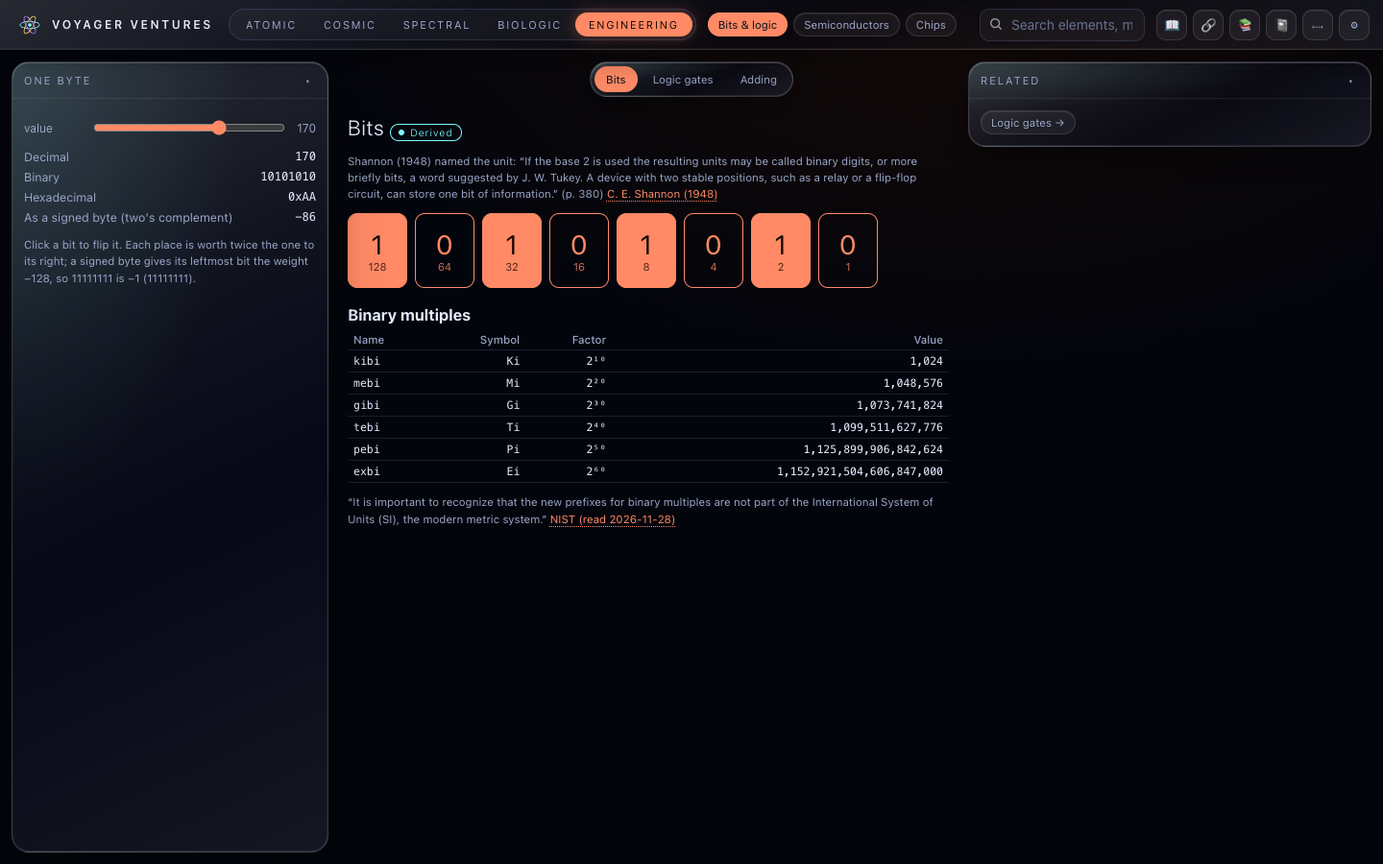
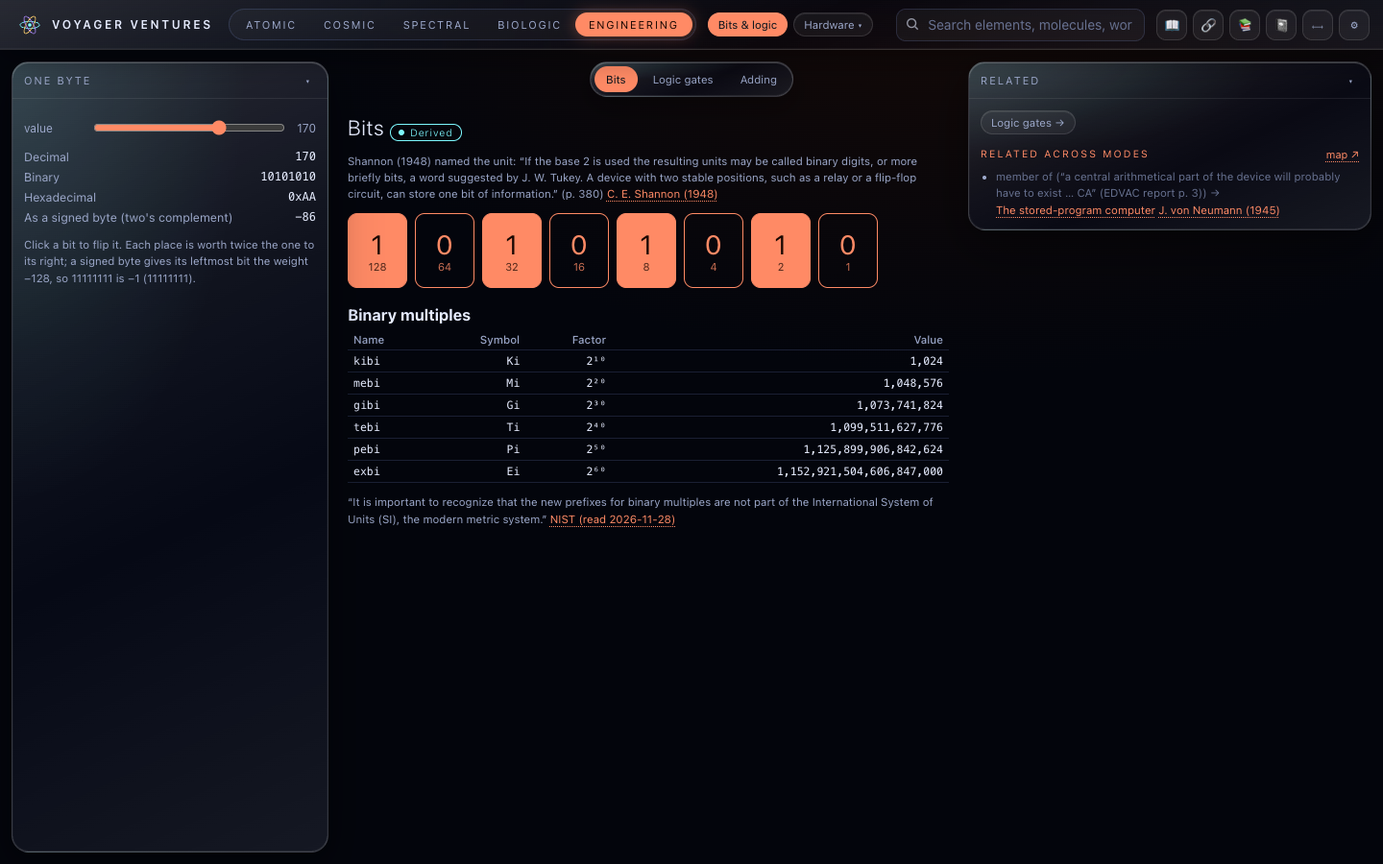
Gate 15.4: the stored-program computer (#/engineering/architecture)
A teaching machine organised as von Neumann's 1945 EDVAC report divides a computer (page
images pp. 3, 6, 7, 85): one marked memory for orders and numbers, four order classes.
Engineering menu: Hardware group.

Claude-Session: https://claude.ai/code/session_012kk9KVTjrcZt1kBsRpDRu1

Changed region(s): [[0.6875, 0.1556, 1.0, 0.2489], [0.5938, 0.0, 0.75, 0.0622]]

diff --git a/src/modes/engineering/architecture/ArchitectureView.tsx b/src/modes/engineering/architecture/ArchitectureView.tsx
@@ -1,0 +1,90 @@
+/**
+ * The stored-program computer — #/engineering/architecture?prog=add|countdown|multiply   (Phase 15, Gate 15.4)
+ *
+ * A teaching machine laid out as von Neumann's 1945 EDVAC report divides a computer — CA, CC, M, I, O — with orders
+ * and numbers in one memory, each word marked as one or the other. Step one fetch–decode–execute cycle at a time,
+ * or run; the part that acts on each step lights up. Not the EDVAC's actual order code.
+ */
+import { useEffect, useState } from 'react';
+import { navigate, setQuery, useRoute } from '@/shared/router';
+import { KV, Panel, ProvenanceBadge } from '@/ui/components';
+import { SourceLinks } from '@/ui/SourcesView';
+import { RelatedLinks } from '@/ui/RelatedLinks';
+import { useVoyager } from '@/shared/store';
+import { OP_CLASS, PROGRAMS, boot, run, step, type Machine } from '@/core/computing/cpu';
+import data from '@datasets/engineering/architecture.json';
+
+interface W { where: string; quote: string }
+const D = data as unknown as { source: string; parts: (W & { id: string })[]; stored: W & { mark: string }; classes: W; outputFromM: W; nerves: W };
+const ON = '#ff8a65';
+const CLASS_LABEL = { a: '(a) arithmetic in CA', b: '(b) transfer of a number', c: '(c) next order from elsewhere in M', d: '(d) input / output' } as const;
+
+/** Which of CA, CC, M, O the last order used. */
+function active(m: Machine): Set<string> {
+  const op = m.last.split(/[ :]/)[0];
+  const s = new Set<string>(['CC']);
+  if (op === 'ADD' || op === 'SUB') { s.add('CA'); s.add('M'); }
+  if (op === 'LOAD' || op === 'STORE') { s.add('M'); s.add('CA'); }
+  if (op === 'OUT') { s.add('O'); s.add('CA'); }
+  return s;
+}
+
+export default function ArchitectureView() {
+  const { query } = useRoute();
+  const prog = (Object.keys(PROGRAMS).find((k) => k === query.get('prog')) ?? 'multiply');
+  const reduced = useVoyager((s) => s.settings.reducedMotion);
+  const [m, setM] = useState<Machine>(() => boot(PROGRAMS[prog].mem));
+  const [running, setRunning] = useState(false);
+  useEffect(() => { setM(boot(PROGRAMS[prog].mem)); setRunning(false); }, [prog]);
+  useEffect(() => {
+    if (!running) return;
+    if (m.halted) { setRunning(false); return; }
+    const t = setTimeout(() => setM((x) => step(x)), 350);
+    return () => clearTimeout(t);
+  }, [running, m]);
+  const act = active(m);
+  const box = (id: string, x: number, y: number, w: number, h: number, label: string) => (
+    <g key={id}><rect x={x} y={y} width={w} height={h} rx={10} fill={act.has(id) && m.steps > 0 ? 'rgba(255,138,101,0.25)' : 'none'} stroke={ON} strokeWidth={act.has(id) && m.steps > 0 ? 2.5 : 1} /><text x={x + w / 2} y={y + h / 2 + 5} textAnchor="middle" fontSize={14} fill={ON}>{label}</text></g>
+  );
+  return (
+    <>
+      <Panel id="arch-controls" className="left-panel" title="Run a program">
+        <div style={{ display: 'flex', gap: 6, flexWrap: 'wrap' }}>{Object.entries(PROGRAMS).map(([k, p]) => <button key={k} className={`chip ${k === prog ? 'active' : ''}`} aria-pressed={k === prog} onClick={() => setQuery({ prog: k === 'multiply' ? null : k })}>{p.title}</button>)}</div>
+        <div className="chip-row" style={{ margin: '10px 0' }}>
+          <button className="chip" disabled={m.halted} onClick={() => setM(step(m))}>Step</button>
+          <button className="chip" disabled={m.halted} onClick={() => (reduced ? setM(run(m)) : setRunning((r) => !r))}>{running ? 'Pause' : 'Run'}</button>
+          <button className="chip" onClick={() => { setRunning(false); setM(boot(PROGRAMS[prog].mem)); }}>Reset</button>
+        </div>
+        <dl className="kv" aria-label="Machine state">
+          <KV k="Next order at (CC)" v={String(m.pc)} /><KV k="Accumulator (CA)" v={String(m.acc)} />
+          <KV k="Output" v={m.out.length ? m.out.join(', ') : '—'} /><KV k="Cycles" v={String(m.steps)} />
+          <KV k="Last" v={m.last} />
+        </dl>
+        <p className="note">Our OUT sends the accumulator straight out; von Neumann thought it “again best to make all transfers from M (by O) into R, and never directly from C” ({D.outputFromM.where}).</p>
+      </Panel>
+      <div className="center-stage hr-stage">
+        <div className="stage-head"><h1>The stored-program computer <ProvenanceBadge cls="illustrative" title="A teaching machine organised as the EDVAC report describes; not the EDVAC's own code" /></h1>
+          <p className="note">von Neumann (1945): “{D.stored.quote}” — so “{D.stored.mark}” ({D.stored.where}) <SourceLinks ids={[D.source]} /></p></div>
+        <svg viewBox="0 0 600 150" role="img" aria-label="The five parts" style={{ width: '100%', maxWidth: 600 }}>
+          {box('I', 10, 50, 70, 50, 'I')}{box('CC', 120, 10, 150, 55, 'CC control')}{box('CA', 120, 85, 150, 55, 'CA arithmetic')}{box('M', 310, 10, 170, 130, 'M memory')}{box('O', 520, 50, 70, 50, 'O')}
+          <line x1={80} x2={120} y1={75} y2={75} stroke={ON} opacity={0.4} /><line x1={270} x2={310} y1={37} y2={37} stroke={ON} opacity={0.4} /><line x1={270} x2={310} y1={112} y2={112} stroke={ON} opacity={0.4} /><line x1={480} x2={520} y1={75} y2={75} stroke={ON} opacity={0.4} />
+        </svg>
+        <div role="grid" aria-label="Memory" style={{ display: 'grid', gridTemplateColumns: 'repeat(8, 1fr)', gap: 6, maxWidth: 600 }}>
+          {m.mem.map((w, i) => (
+            <div key={i} role="gridcell" aria-label={`Word ${i}`} style={{ border: `1px solid ${i === m.pc && !m.halted ? '#f5c76b' : 'var(--line)'}`, borderRadius: 8, padding: '4px 6px', background: i === m.pc && !m.halted ? 'rgba(245,199,107,0.12)' : 'transparent', fontSize: 12 }}>
+              <div className="note" style={{ fontSize: 10 }}>{i} · {w.kind === 'order' ? 'order' : 'number'}</div>
+              <div style={{ color: w.kind === 'order' ? ON : 'var(--text)' }}>{w.kind === 'order' ? `${w.op}${['OUT', 'HALT'].includes(w.op) ? '' : ` ${w.addr}`}` : w.value}</div>
+            </div>
+          ))}
+        </div>
+        <p className="note">Gold: the word CC fetches next. Each order is one of the report's four classes: {Object.entries(CLASS_LABEL).map(([k, l]) => `${l} — ${Object.entries(OP_CLASS).filter(([, c]) => c === k).map(([o]) => o).join(', ')}`).join('; ')}. “{D.classes.quote}” ({D.classes.where}) JZ, a jump taken only when the accumulator is zero, is our addition.</p>
+      </div>
+      <Panel id="arch-detail" className="right-panel" title="The five parts">
+        {D.parts.map((p) => <p key={p.id} className="note"><strong style={{ color: ON }}>{p.id}</strong> — “{p.quote}” ({p.where})</p>)}
+        <p className="note">“{D.nerves.quote}” ({D.nerves.where}) <SourceLinks ids={[D.source]} /> <button className="link-btn" onClick={() => navigate('/biologic/nerves')}>Neurons →</button></p>
+        <button className="chip" onClick={() => navigate('/engineering')}>The adder inside CA →</button>
+        <RelatedLinks id="instrument:architecture" limit={3} />
+      </Panel>
+    </>
+  );
+}

diff --git a/src/core/computing/cpu.ts b/src/core/computing/cpu.ts
@@ -1,0 +1,51 @@
+/**
+ * A stored-program teaching machine (Phase 15, Gate 15.4), organised as von Neumann's 1945 EDVAC report describes:
+ * a central arithmetic part (CA, here one accumulator), central control (CC, here a program counter that fetches
+ * orders), one memory M holding both orders and numbers — “The orders which are received by C come from M, i.e.
+ * from the same place where the numerical material is stored” (p. 85) — and input/output. Each memory word carries
+ * a mark saying whether it is a number or an order. The orders follow his four classes (p. 85):
+ *   (a) arithmetic in CA: ADD, SUB       (b) transfers of a number: LOAD, STORE
+ *   (c) moving CC's connection with M:  JUMP, and JZ (jump when the accumulator is zero — our addition)
+ *   (d) input/output: OUT, and HALT to stop.
+ * This is an educational machine in the spirit of the report, not the EDVAC's actual order code.
+ */
+export type Op = 'LOAD' | 'STORE' | 'ADD' | 'SUB' | 'JUMP' | 'JZ' | 'OUT' | 'HALT';
+export type Word = { kind: 'order'; op: Op; addr: number } | { kind: 'number'; value: number };
+export const OP_CLASS: Record<Op, 'a' | 'b' | 'c' | 'd'> = { ADD: 'a', SUB: 'a', LOAD: 'b', STORE: 'b', JUMP: 'c', JZ: 'c', OUT: 'd', HALT: 'd' };
+export interface Machine { mem: Word[]; pc: number; acc: number; out: number[]; halted: boolean; steps: number; last: string }
+
+export const order = (op: Op, addr = 0): Word => ({ kind: 'order', op, addr });
+export const num = (value: number): Word => ({ kind: 'number', value });
+export const boot = (mem: Word[]): Machine => ({ mem: mem.map((w) => ({ ...w })), pc: 0, acc: 0, out: [], halted: false, steps: 0, last: 'ready' });
+
+/** One fetch–decode–execute cycle; returns a new machine. */
+export function step(m: Machine): Machine {
+  if (m.halted) return m;
+  const mem = m.mem.map((w) => ({ ...w }));
+  const w = mem[m.pc];
+  if (!w || w.kind !== 'order') return { ...m, halted: true, last: `stopped: word ${m.pc} is a number, not an order` };
+  const val = (a: number) => { const x = mem[a]; return x && x.kind === 'number' ? x.value : 0; };
+  let { pc, acc } = m; const out = [...m.out]; let halted = false, last = '';
+  pc += 1;
+  switch (w.op) {
+    case 'LOAD': acc = val(w.addr); last = `LOAD ${w.addr}: accumulator ← ${acc}`; break;
+    case 'STORE': mem[w.addr] = num(acc); last = `STORE ${w.addr}: memory[${w.addr}] ← ${acc}`; break;
+    case 'ADD': acc += val(w.addr); last = `ADD ${w.addr}: accumulator ← ${acc}`; break;
+    case 'SUB': acc -= val(w.addr); last = `SUB ${w.addr}: accumulator ← ${acc}`; break;
+    case 'JUMP': pc = w.addr; last = `JUMP ${w.addr}`; break;
+    case 'JZ': if (acc === 0) { pc = w.addr; last = `JZ ${w.addr}: zero, jump`; } else last = `JZ ${w.addr}: not zero, go on`; break;
+    case 'OUT': out.push(acc); last = `OUT: ${acc}`; break;
+    case 'HALT': halted = true; pc -= 1; last = 'HALT'; break;
+  }
+  return { mem, pc, acc, out, halted, steps: m.steps + 1, last };
+}
+export function run(m: Machine, limit = 1000): Machine { let x = m; while (!x.halted && x.steps < limit) x = step(x); return x; }
+
+/** Example programs. */
+export const PROGRAMS: Record<string, { title: string; mem: Word[] }> = {
+  add: { title: 'Add two numbers (7 + 35)', mem: [order('LOAD', 5), order('ADD', 6), order('STORE', 7), order('OUT'), order('HALT'), num(7), num(35), num(0)] },
+  countdown: { title: 'Count down from 5', mem: [order('LOAD', 8), order('OUT'), order('JZ', 6), order('SUB', 9), order('STORE', 8), order('JUMP', 0), order('HALT'), num(0), num(5), num(1)] },
+  multiply: { title: 'Multiply 6 × 7 by repeated addition', mem: [
+    order('LOAD', 13), order('JZ', 9), order('SUB', 15), order('STORE', 13), order('LOAD', 14), order('ADD', 12), order('STORE', 14), order('JUMP', 0), num(0),
+    order('LOAD', 14), order('OUT'), order('HALT'), num(6), num(7), num(0), num(1)] },
+};

diff --git a/tests/e2e/phase15.spec.ts b/tests/e2e/phase15.spec.ts
@@ -52,7 +52,8 @@ test('116 engineering mode: portal, bits, gates and a ripple-carry adder', async
 // ---------------- Gate 15.2 ----------------
 test('117 semiconductors: silicon’s band gap and Shockley’s junction equation', async ({ page }) => {
   await page.goto('/#/engineering');
-  await page.getByRole('navigation', { name: 'Engineering sections' }).getByRole('button', { name: 'Semiconductors' }).click();
+  await page.getByRole('navigation', { name: 'Engineering sections' }).getByRole('button', { name: 'Hardware ▾' }).click();
+  await page.getByRole('menuitem', { name: 'Semiconductors' }).click();
   await expect(page).toHaveURL(/#\/engineering\/semiconductors$/);
   const v = page.getByLabel('Junction values');
   await expect(v).toContainText('12 mA'); await expect(v).toContainText('25.85'); await expect(v).toContainText('0.536');
@@ -66,7 +67,8 @@ test('117 semiconductors: silicon’s band gap and Shockley’s junction equatio
 // ---------------- Gate 15.3 ----------------
 test('118 integrated circuits: Kilby’s and Noyce’s 1959 patents and the planar process', async ({ page }) => {
   await page.goto('/#/engineering/semiconductors');
-  await page.getByRole('navigation', { name: 'Engineering sections' }).getByRole('button', { name: 'Chips' }).click();
+  await page.getByRole('navigation', { name: 'Engineering sections' }).getByRole('button', { name: 'Hardware ▾' }).click();
+  await page.getByRole('menuitem', { name: 'Chips' }).click();
   await expect(page).toHaveURL(/#\/engineering\/chips$/);
   const bar = await page.locator('header.topbar').boundingBox(), acts = await page.locator('.topbar-actions').boundingBox();
   expect(acts!.x + acts!.width).toBeLessThanOrEqual(bar!.x + bar!.width + 1);
@@ -79,4 +81,22 @@ test('118 integrated circuits: Kilby’s and Noyce’s 1959 patents and the plan
   await page.getByRole('button', { name: /^Kilby — / }).click();
   await expect(page.locator('.stage-head')).toContainText('all components of the electronic circuit are completely integrated');
   await shot(page, '118b-kilby', 'Kilby’s US 3,138,743 (filed February 1959): the integrated circuit in one body of semiconductor, with drawing sheet 4.');
+});
+
+// ---------------- Gate 15.4 ----------------
+test('119 stored-program computer: von Neumann’s five parts, one memory for orders and numbers, 6 × 7 by repeated addition', async ({ page }) => {
+  await page.goto('/#/engineering/chips');
+  await page.getByRole('navigation', { name: 'Engineering sections' }).getByRole('button', { name: 'Hardware ▾' }).click();
+  await page.getByRole('menuitem', { name: 'Stored-program computer' }).click();
+  await expect(page).toHaveURL(/#\/engineering\/architecture$/);
+  const bar = await page.locator('header.topbar').boundingBox(), acts = await page.locator('.topbar-actions').boundingBox();
+  expect(acts!.x + acts!.width).toBeLessThanOrEqual(bar!.x + bar!.width + 1);
+  await expect(page.locator('.stage-head')).toContainText('from the same place where the numerical material is stored');
+  const st = page.getByLabel('Machine state');
+  await page.getByRole('button', { name: 'Step', exact: true }).click();
+  await expect(st).toContainText('LOAD 13: accumulator ← 7');
+  for (let i = 0; i < 80; i++) { if (await page.getByRole('button', { name: 'Step', exact: true }).isDisabled()) break; await page.getByRole('button', { name: 'Step', exact: true }).click(); }
+  await expect(st).toContainText('42');
+  await expect(st).toContainText('HALT');
+  await shot(page, '119a-computer', 'The stored-program computer (Gate 15.4): a teaching machine laid out as von Neumann’s 1945 EDVAC report divides it — CA, CC, M, I, O — with orders and numbers in one marked memory; 6 × 7 = 42 by repeated addition, stepped cycle by cycle.');
 });

diff --git a/src/core/physics/modules.ts b/src/core/physics/modules.ts
@@ -56,6 +56,6 @@ export const PHYSICS_MODULES: PhysicsModule[] = [
     solvers: ['Scale of life (Gate 11.1): reported sizes on a log axis; ratios of representative sizes (a range counts as its geometric mean)', 'Structure geometry (Gate 11.1): principal-axis extents of an atom set (covariance eigenvectors, cyclic Jacobi), unweighted radius of gyration', 'PDB structures (Gate 11.3): residues by C-alpha or phosphorus, secondary structure from HELIX/SHEET records, SEQRES sequences in one-letter code, hetero groups, size and Rg', 'Movement (Gate 12.2): Hill force–velocity v = b(P₀ − P)/(P + a), power, optimal load √(k² + k) − k', 'Circulation (Gate 12.3): Poiseuille Q = k″PD⁴/L, cycle length 60/rate, implied stroke volume, NHLBI blood-pressure categories', 'Hodgkin–Huxley (Gate 12.4): RK4 membrane action potential, Q10 = 3, conduction velocity θ = √(Ka/2R₂C_M)', 'Photosynthesis (Gate 11.7): photon energy hc/λ per photon and per mole; chlorophyll maxima over a Planck 5772 K model', 'Transport (Gate 11.6): Fick diffusion by explicit finite volumes (r ≤ ½), Einstein rms displacement √(2Dt) and D = RT/(6πηrN), Gaussian random walk, van ’t Hoff π = cRT, Michaelis–Menten V = [S]/([S] + k)', 'Membrane potential (Gate 11.5): Hodgkin & Katz (1949) eq. (4) with concentrations for activities, single-ion (Nernst) limits, R = N_A k_B, F = N_A e', 'Cells (Gate 11.4): sphere surface πd², volume πd³/6, A/V = 6/d, volume ratios', 'Genetic code (Gate 11.2): NCBI codon tables (standard, vertebrate mitochondrial), codon-by-codon translation in three frames on either strand, reverse complement, degeneracy, code differences'],
     validity: ['Reported sizes are typical or approximate values as their sources state them, not distributions; disagreeing sources are shown side by side, none preferred', 'Small-molecule sizes are the largest nucleus-to-nucleus distance in a computed (PubChem3D) conformer, not a van der Waals or hydrodynamic size', 'Principal-axis extents describe deposited crystal coordinates without hydrogens or solvent', 'Transport: free diffusion in water (no crowding, binding or membranes), 15 °C coefficients only; ideal dilute osmotic pressure; single-substrate Michaelis–Menten without inhibition', 'Membrane potential: eq. (4) is “no more than a rough approximation” (the paper); squid-axon concentrations only; no pumps or currents', 'Translation is a table lookup: no gene finding, splicing, reading-frame choice or ribosome model; alternative start codons are marked, not used to start'] },
   { id: 'computing', name: 'Computing', responsibility: 'Engineering Mode: bits, Boolean logic and adders (Phase 15)', status: 'partial', version: '0.1.0', phase: 15,
-    solvers: ['Logic (Gate 15.1): truth tables, NAND-only constructions, half/full and ripple-carry adders evaluated gate by gate; binary, hexadecimal and two’s complement', 'Junction (Gate 15.2): Shockley’s p-n equation (4.13) as I = I_s(e^{qV/kT} − 1); kT/q; band-gap absorption edge hc/E_g'],
+    solvers: ['Logic (Gate 15.1): truth tables, NAND-only constructions, half/full and ripple-carry adders evaluated gate by gate; binary, hexadecimal and two’s complement', 'Junction (Gate 15.2): Shockley’s p-n equation (4.13) as I = I_s(e^{qV/kT} − 1); kT/q; band-gap absorption edge hc/E_g', 'Stored-program machine (Gate 15.4): an accumulator teaching machine with marked words, von Neumann’s four order classes, fetch–decode–execute'],
     validity: ['Ideal digital logic: no timing, propagation delay, fan-out or analogue behaviour'] },
 ];

diff --git a/src/App.tsx b/src/App.tsx
@@ -75,6 +75,7 @@ const ModelsView = lazy(() => import('@/modes/cosmic/universe/ModelsView'));
 const LogicView = lazy(() => import('@/modes/engineering/logic/LogicView'));
 const SemiconductorsView = lazy(() => import('@/modes/engineering/semiconductors/SemiconductorsView'));
 const ChipsView = lazy(() => import('@/modes/engineering/chips/ChipsView'));
+const ArchitectureView = lazy(() => import('@/modes/engineering/architecture/ArchitectureView'));
 
 export default function App() {
   const { path } = useRoute();
@@ -111,7 +112,7 @@ export default function App() {
   } else if (mode === 'cosmic') view = path[1] === 'map' ? <UniverseMapView /> : path[1] === 'plasma' ? <PlasmaView /> : path[1] === 'grtests' ? <GrTestsView /> : path[1] === 'models' ? <ModelsView /> : path[1] === 'sandbox' ? <SandboxView /> : path[1] === 'relativity' ? <RelativityView /> : path[1] === 'compact' ? <CompactView /> : path[1] === 'lensing' ? <LensingView /> : path[1] === 'galaxies' ? <GalaxiesView /> : path[1] === 'nebulae' ? <NebulaeView /> : path[1] === 'universe' ? <UniverseView /> : path[1] === 'ladder' ? <LadderView /> : path[1] === 'cmb' ? <CmbView /> : path[1] === 'darkmatter' ? <DarkMatterView /> : path[1] === 'gw' ? <GwView /> : path[1] === 'stars' ? (path[2] === 'hr' ? <HrView /> : path[2] === 'planets' ? <PlanetsView /> : <StarsView />) : <CosmicView focusId={path[1] ?? 'sun'} />;
   else if (mode === 'spectral') view = path[1] === 'lab' ? <WaveLab /> : path[1] === 'fields' ? <FieldsView /> : path[1] === 'compare' ? <CompareView /> : path[1] === 'antennas' ? <AntennaView /> : path[1] === 'rf' ? <RfView /> : path[1] === 'room' ? <RoomView /> : path[1] === 'modulation' ? <ModulationView /> : path[1] === 'acoustics' ? <AcousticsView /> : path[1] === 'audio' ? <AudioView /> : path[1] === 'roomacoustics' ? <RoomAcousticsView /> : path[1] === 'optics' ? <OpticsView /> : path[1] === 'waveoptics' ? <WaveOpticsView /> : path[1] === 'polarisation' ? <PolarisationView /> : path[1] === 'spectroscopy' ? <SpectroscopyView /> : path[1] === 'thermal' ? <ThermalView /> : path[1] === 'telescopes' ? <TelescopesView /> : path[1] === 'atmosphere' ? <AtmosphereView /> : <SpectralAtlas />;
   else if (mode === 'biologic') view = path[1] === 'molecules' ? <BiomoleculesView /> : path[1] === 'proteins' ? <ProteinsView /> : path[1] === 'cells' ? <CellsView /> : path[1] === 'membranes' ? <MembranesView /> : path[1] === 'transport' ? <TransportView /> : path[1] === 'plants' ? <PlantsView /> : path[1] === 'body' ? <BodyView /> : path[1] === 'movement' ? <MovementView /> : path[1] === 'circulation' ? <CirculationView /> : path[1] === 'nerves' ? <NervesView /> : path[1] === 'systems' ? <SystemsView /> : path[1] === 'zoom' ? <ZoomView /> : path[1] === 'senses' ? <SensesView /> : path[1] === 'imaging' ? <ImagingView /> : <LifeAtlasView />;
-  else if (mode === 'engineering') view = path[1] === 'semiconductors' ? <SemiconductorsView /> : path[1] === 'chips' ? <ChipsView /> : <LogicView />;
+  else if (mode === 'engineering') view = path[1] === 'semiconductors' ? <SemiconductorsView /> : path[1] === 'chips' ? <ChipsView /> : path[1] === 'architecture' ? <ArchitectureView /> : <LogicView />;
   else if (mode === 'notebook') view = <NotebookView />;
   else if (mode === 'scale') view = <ScaleView />;
   else if (mode === 'relations') view = <RelationsView />;

diff --git a/scripts/ingestion/curated-architecture.ts b/scripts/ingestion/curated-architecture.ts
@@ -1,0 +1,29 @@
+/**
+ * Stored-program architecture (Phase 15, Gate 15.4) → datasets/engineering/architecture.json
+ *
+ *   node --experimental-strip-types scripts/ingestion/curated-architecture.ts
+ *
+ * Read 2026-11-28 on the page images: von Neumann, First Draft of a Report on the EDVAC (Moore School, 30 June 1945;
+ * archive.org 20200901-vN_First_Draft_Report_EDVAC_Moore_Sch_1945, Public Domain Mark; leaf = printed page + 7):
+ * pp. 3, 6, 7, 85.
+ */
+import { writeDataset } from './lib/ingest.ts';
+
+const data = {
+  version: '1.0.0',
+  source: 'vonneumann-edvac-1945',
+  parts: [
+    { id: 'CA', where: 'p. 3', quote: 'At any rate a central arithmetical part of the device will probably have to exist, and this constitutes the first specific part: CA.' },
+    { id: 'CC', where: 'p. 3', quote: 'The logical control of the device, that is the proper sequencing of its operations can be most efficiently carried out by a central control organ.' },
+    { id: 'M', where: 'p. 6', quote: 'At any rate the total memory constitutes the third specific part of the device: M.' },
+    { id: 'I', where: 'p. 7', quote: 'The device must have organs to transfer (numerical or other) information from R into its specific parts C and M. These organs form its input, the fourth specific part: I.' },
+    { id: 'O', where: 'p. 7', quote: 'The device must have organs to transfer (presumably only numerical information) from its specific parts C and M into R. These organs form its output, the fifth specific part: O.' },
+  ],
+  stored: { where: 'p. 85', quote: 'The orders which are received by C come from M, i.e. from the same place where the numerical material is stored.', mark: 'each minor cycle must contain a distinguishing mark, which indicates whether its is a standard number or an order.' },
+  outputFromM: { where: 'p. 7', quote: 'It will be seen that it is again best to make all transfers from M (by O) into R, and never directly from C' },
+  nerves: { where: 'p. 6', quote: 'The three specific parts CA, CC (together C) and M correspond to the associative neurons in the human nervous system.' },
+  classes: { where: 'p. 85', quote: 'The orders which CC receives fall naturally into these four classes: (a) Orders for CC to instruct CA to carry out one of its ten specific operations (cf. 11.4). (b) Orders for CC to cause the transfer of a standard number from one place to another. (c) Orders for CC to transfer its own connection with M to a different point in M, with the purpose of getting its next order from there. (d) Orders controlling the operation of the input and the output of the device' },
+};
+writeDataset('datasets/engineering/architecture.json', data, { dataset: 'architecture', version: '1.0.0', records: 8,
+  sources: [{ institution: 'von Neumann, First Draft of a Report on the EDVAC (Moore School, University of Pennsylvania, 1945)', url: 'https://archive.org/details/20200901-vN_First_Draft_Report_EDVAC_Moore_Sch_1945', license: 'archive.org Public Domain Mark; no copyright notice on the 1945 title page', notes: 'pp. 3, 6, 7, 85 read on the page images' }],
+  adapter: 'scripts/ingestion/curated-architecture.ts', warnings: [] });

diff --git a/src/shared/sources/sources.ts b/src/shared/sources/sources.ts
@@ -1015,6 +1015,9 @@ export const SOURCES: Source[] = [
   { id: 'noyce-us2981877', kind: 'report', citation: 'Noyce, R. N. (1961) Semiconductor Device-and-Lead Structure. U.S. Patent 2,981,877, filed 30 July 1959, granted 25 April 1961 (assignor to Fairchild Semiconductor). Read on the USPTO page images.', title: 'Semiconductor Device-and-Lead Structure (US 2,981,877)', authors: 'R. N. Noyce', year: 1961,
     institution: 'United States Patent Office', url: 'https://image-ppubs.uspto.gov/dirsearch-public/print/downloadPdf/2981877', license: 'U.S. patent: public domain (drawing sheet 1 reproduced)', authorBio: null,
     usedFor: ['the oxide insulating layer, photoengraving, and metal leads over the oxide (col. 1–2)'], datasets: ['chips'] },
+  { id: 'vonneumann-edvac-1945', kind: 'report', citation: 'von Neumann, J. (1945) First Draft of a Report on the EDVAC. Contract No. W-670-ORD-4926, U.S. Army Ordnance Department and the University of Pennsylvania; Moore School of Electrical Engineering, 30 June 1945. Read on the page images of pp. 3, 6, 7 and 85 (Internet Archive).', title: 'First Draft of a Report on the EDVAC', authors: 'J. von Neumann', year: 1945,
+    institution: 'Moore School of Electrical Engineering, University of Pennsylvania', url: 'https://archive.org/details/20200901-vN_First_Draft_Report_EDVAC_Moore_Sch_1945', license: 'Internet Archive: Public Domain Mark 1.0; no copyright notice on the 1945 title page', authorBio: null,
+    usedFor: ['the five parts CA, CC, M, I, O; orders and numbers in the same memory; the four classes of orders'], datasets: ['architecture'] },
   { id: 'southall-1910', kind: 'book', citation: 'Southall, J. P. C. (1910) The Principles and Methods of Geometrical Optics, Especially as Applied to the Theory of Optical Instruments. New York: Macmillan.', title: 'The Principles and Methods of Geometrical Optics', authors: 'J. P. C. Southall', year: 1910,
     institution: 'Macmillan; scan of the University of Toronto library at the Internet Archive (principlesmethod00soutuoft)', url: 'https://archive.org/details/principlesmethod00soutuoft', license: 'Public domain (published 1910)',
     authorBio: 'James P. C. Southall, Professor of Physics in the Alabama Polytechnic Institute (title page, read from the scan’s text layer).',

diff --git a/src/ui/TopBar.tsx b/src/ui/TopBar.tsx
@@ -32,7 +32,7 @@ interface Hit { kind: 'element' | 'molecule' | 'body' | 'reaction' | 'material' 
 const SPECTRAL_SECTIONS = ['lab', 'fields', 'compare', 'antennas', 'rf', 'room', 'modulation', 'acoustics', 'audio', 'roomacoustics', 'optics', 'waveoptics', 'polarisation', 'spectroscopy', 'thermal', 'telescopes', 'atmosphere'];
 /** Biologic sub-routes other than the scale-of-life atlas (Phase 11+). */
 export const BIOLOGIC_SECTIONS: string[] = ['molecules', 'proteins', 'cells', 'membranes', 'transport', 'plants', 'body', 'movement', 'circulation', 'nerves', 'systems', 'zoom', 'senses', 'imaging'];
-const ENGINEERING_SECTIONS: string[] = ['semiconductors', 'chips'];
+const ENGINEERING_SECTIONS: string[] = ['semiconductors', 'chips', 'architecture'];
 const COSMIC_SECTIONS = ['map', 'stars', 'sandbox', 'relativity', 'compact', 'lensing', 'galaxies', 'nebulae', 'universe', 'ladder', 'cmb', 'darkmatter', 'gw', 'plasma', 'grtests', 'models'];
 
 /** A chip that opens a small menu of related sections; it is highlighted when one of them is open. */
@@ -314,8 +314,11 @@ export function TopBar() {
         {mode === 'engineering' && (
           <nav className="chip-row hide-mobile" aria-label="Engineering sections">
             <button className={`chip ${!ENGINEERING_SECTIONS.includes(path[1]) ? 'active' : ''}`} onClick={() => navigate('/engineering')}>Bits & logic</button>
-            <button className={`chip ${path[1] === 'semiconductors' ? 'active' : ''}`} onClick={() => navigate('/engineering/semiconductors')}>Semiconductors</button>
-            <button className={`chip ${path[1] === 'chips' ? 'active' : ''}`} onClick={() => navigate('/engineering/chips')}>Chips</button>
+            <ChipMenu label="Hardware" items={[
+              { label: 'Semiconductors', to: '/engineering/semiconductors', active: path[1] === 'semiconductors' },
+              { label: 'Chips', to: '/engineering/chips', active: path[1] === 'chips' },
+              { label: 'Stored-program computer', to: '/engineering/architecture', active: path[1] === 'architecture' },
+            ]} />
           </nav>
         )}
         {mode === 'biologic' && (

diff --git a/src/shared/scientific-relationships/registry.ts b/src/shared/scientific-relationships/registry.ts
@@ -418,6 +418,10 @@ registerRelationship({ from: 'instrument:semiconductors', to: 'wave:em-infrared'
 registerEntity(E('instrument:chips', 'Integrated circuits', '#/engineering/chips', 'Kilby’s and Noyce’s 1959 patents; the planar process (Gate 15.3)'));
 registerRelationship({ from: 'instrument:semiconductors', to: 'instrument:chips', type: 'part-of', context: '“a body of semiconductor material containing a diffused p-n junction wherein all components of the electronic circuit are completely integrated” (Kilby)', source: 'kilby-us3138743' });
 registerRelationship({ from: 'element:14', to: 'instrument:chips', type: 'part-of', context: '“the surface of the silicon oxidizes and forms an oxide layer” — a good electrical insulator (Noyce)', source: 'noyce-us2981877' });
+registerEntity(E('instrument:architecture', 'The stored-program computer', '#/engineering/architecture', 'A teaching machine organised as the EDVAC report describes (Gate 15.4)'));
+registerRelationship({ from: 'instrument:logic', to: 'instrument:architecture', type: 'part-of', context: '“a central arithmetical part of the device will probably have to exist … CA” (EDVAC report p. 3)', source: 'vonneumann-edvac-1945' });
+registerRelationship({ from: 'instrument:architecture', to: 'instrument:nerves', type: 'explains', context: '“The three specific parts CA, CC (together C) and M correspond to the associative neurons in the human nervous system” (von Neumann 1945, p. 6)', source: 'vonneumann-edvac-1945' });
+registerRelationship({ from: 'instrument:chips', to: 'instrument:architecture', type: 'part-of', context: '“to facilitate the inclusion of numerous semiconductor devices within a single body of material” (Noyce)', source: 'noyce-us2981877' });
 
 export const getEntity = (id: string) => REGISTRY.get(id);
 export const allEntities = () => [...REGISTRY.values()];

diff --git a/tests/science/cpu.test.ts b/tests/science/cpu.test.ts
@@ -1,0 +1,30 @@
+/**
+ * Gate 15.4 — the stored-program teaching machine.
+ */
+import { describe, expect, it } from 'vitest';
+import { OP_CLASS, PROGRAMS, boot, num, order, run, step } from '@/core/computing/cpu';
+
+describe('stored-program machine', () => {
+  it('adds 7 + 35 = 42 and stores it back into memory', () => {
+    const m = run(boot(PROGRAMS.add.mem));
+    expect(m.out).toEqual([42]); expect(m.mem[7]).toEqual(num(42)); expect(m.halted).toBe(true); expect(m.steps).toBe(5);
+  });
+  it('counts down 5, 4, 3, 2, 1, 0 with a conditional jump', () => {
+    expect(run(boot(PROGRAMS.countdown.mem)).out).toEqual([5, 4, 3, 2, 1, 0]);
+  });
+  it('multiplies 6 × 7 = 42 by repeated addition', () => {
+    expect(run(boot(PROGRAMS.multiply.mem)).out).toEqual([42]);
+  });
+  it('orders and numbers share one memory; executing a number stops the machine', () => {
+    const m = run(boot([order('JUMP', 1), num(3)]));
+    expect(m.halted).toBe(true); expect(m.last).toContain('is a number, not an order');
+  });
+  it('a program can overwrite its own data: STORE changes memory that later orders read', () => {
+    const m0 = boot([order('LOAD', 4), order('ADD', 4), order('STORE', 4), order('HALT'), num(5)]);
+    expect(run(m0).mem[4]).toEqual(num(10));
+    expect(step(m0).acc).toBe(5);
+  });
+  it('every order belongs to one of von Neumann’s four classes', () => {
+    expect(new Set(Object.values(OP_CLASS))).toEqual(new Set(['a', 'b', 'c', 'd']));
+  });
+});

diff --git a/STATUS_REPORT.md b/STATUS_REPORT.md
@@ -1,6 +1,6 @@
 # Voyager Ventures — status report and index
 
-*Kept up to date by Claude during the autonomous run. Last updated: **2026-11-28, Gate 15.3**.*
+*Kept up to date by Claude during the autonomous run. Last updated: **2026-11-28, Gate 15.4**.*
 
 Live site: https://voyager-ventures.vercel.app — **production still serves the build from 2026-11-27** (Phase 10 + universe map + interface pass). Nothing from Phases 11–14 is deployed: you asked for no deploys until Phase 14 is finished. The deploy command is at the bottom.
 
@@ -91,6 +91,7 @@ Four portals: ATOMIC, COSMIC, SPECTRAL, **BIOLOGIC** (new in Phase 11; shows the
 ### ENGINEERING (coral) — **new in Phase 15**
 | Address | What it is | Main sources |
 |---|---|---|
+| `#/engineering/architecture` | **Stored-program computer** — step a tiny computer through 6 × 7 = 42, laid out as von Neumann’s 1945 EDVAC report describes | von Neumann 1945 |
 | `#/engineering/chips` | **Chips** — Kilby’s and Noyce’s 1959 integrated-circuit patents with their drawings; the planar process step by step | US patents 3,138,743 and 2,981,877 |
 | `#/engineering/semiconductors` | **Semiconductors** — silicon’s band gap; a live p-n junction (Shockley’s 1949 equation) | Shockley 1949, TU Delft OCW |
 | `#/engineering` | **Bits & logic** — a byte in binary/hex/two's complement, logic gates with truth tables, NAND universality, a 4-bit adder built from gates | Boole 1854, Shannon 1938 and 1948, NIST |
@@ -102,6 +103,8 @@ Four portals: ATOMIC, COSMIC, SPECTRAL, **BIOLOGIC** (new in Phase 11; shows the
 ---
 
 ## 4. What was done in this run (newest first)
+
+- **Gate 15.4** — a stored-program computer you can step through, organised as von Neumann's 1945 report describes.
 
 - **Gate 15.3** — integrated circuits: the Kilby and Noyce patents read on the Patent Office's own page images, with their original drawings.
 

diff --git a/KNOWN_LIMITATIONS.md b/KNOWN_LIMITATIONS.md
@@ -229,6 +229,7 @@
 * **Plants and microbes (Gate 11.7):** chlorophyll maxima only (no spectra: OMLC states no licence and PhotochemCAD's own site refused the robots.txt request); in ether, not in leaves; sunlight is a black-body model (no measured solar spectrum is openly licensed); no photosynthetic efficiency, no chloroplast drawing or size (no open source with a size was read; NHGRI has no chloroplast entry), no plant-cell schematic beyond its quoted size range. **Not built in Phase 11:** glycolysis and cellular respiration as views (`process:glycolysis` and `process:cellular-respiration` stay *planned*): no allowed open source for the ATP yield or the pathway steps was found.
 
 ## Phase 15 (Computing & Computer Engineering)
+* **Stored-program computer (15.4):** a 16-word accumulator teaching machine, not the EDVAC’s code or timing; no input order, no subroutines, no binary arithmetic shown inside the accumulator (the adder is in Bits & logic).
 * **Integrated circuits (15.3):** two founding patents and the planar process only — no transistor-count history (Moore 1965 not openly reachable), no lithography physics, no modern process nodes.
 * **Semiconductors (15.2):** the ideal (Shockley) junction only — no series resistance, breakdown, recombination current or temperature dependence of I_s; I_s is a free parameter; no MOSFET or CMOS yet (no openly readable primary source found so far); silicon values from a CC BY-NC-SA course text (no open US-government source found).
 * **Bits and logic (15.1):** ideal Boolean logic — no voltages, timing, propagation delay or fan-out (transistor behaviour comes in 15.2); NIST prefixes stop at exbi (zebi/yobi not on the NIST page); Shannon's 1938 thesis is view-only (the AIEE paper is used).
